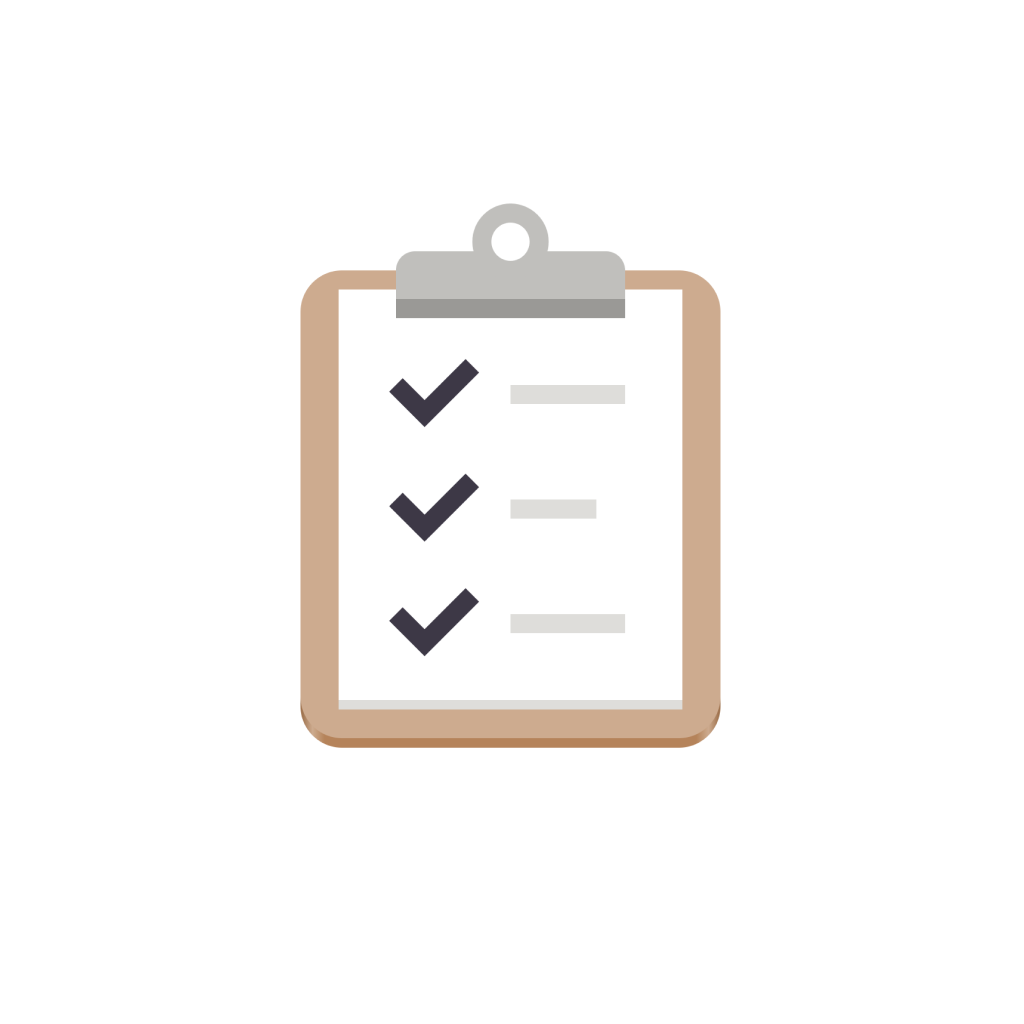
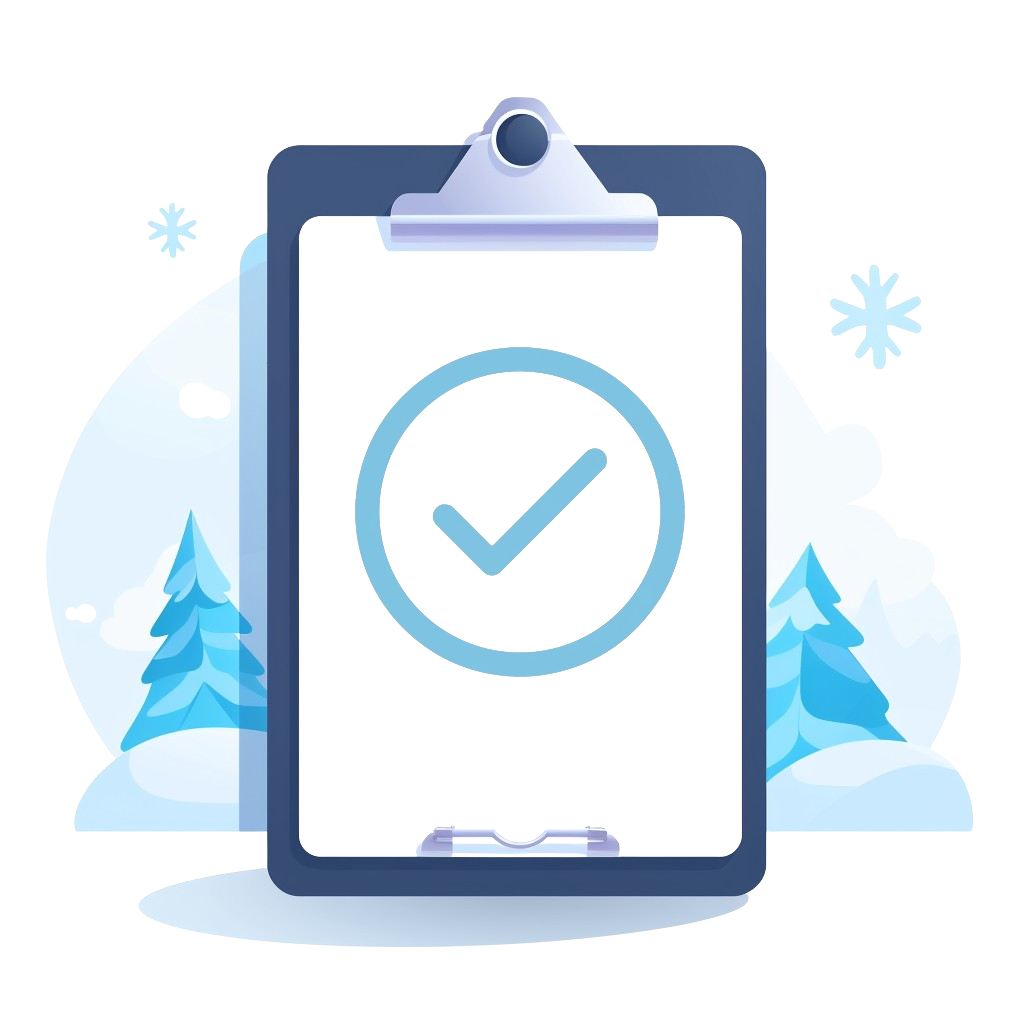
changed style and colors, added snowflakes that can be toggled on and off

diff --git a/styles/appStyles.js b/styles/appStyles.js
@@ -11,18 +11,11 @@ import Constants from "expo-constants";
 
 // Colors
 export const colors = {
-  primary: "#332424",
-  secondary: "#4D3636",
-  tertiary: "#E6E6E6",
-  alternative: "#999999",
+  primary: "#3C5A6B", // Icy Blue
+  secondary: "#F49578", // Warm Coral
+  tertiary: "#F0E5D8", // Soft Cream
+  alternative: "#7F848E", // Cool Gray
 };
-
-// export const colorsToTest = {
-//   primary: "#2E619E",
-//   secondary: "#D6CACF",
-//   tertiary: "#4484C2",
-//   alternative: "#999999",
-// };
 
 const statusBarHeight = Constants.statusBarHeight;
 
@@ -97,7 +90,9 @@ export const ListView = styled.TouchableHighlight`
   min-height: 85px;
   width: 100%;
   padding: 15px;
-  justify-content: space-around;
+  flex-direction: row;
+  justify-content: space-between;
+  align-items: center;
   margin-bottom: 15px;
   border-radius: 10px;
 `;
@@ -110,7 +105,7 @@ export const ListViewHidden = styled.View`
   justify-content: center;
   align-items: flex-end;
   margin-bottom: 15px;
-  border-radius: 11px;
+  border-radius: 10px;
 `;
 
 export const HiddenButton = styled.TouchableOpacity`
@@ -119,12 +114,11 @@ export const HiddenButton = styled.TouchableOpacity`
 `;
 
 export const NothingTodoContainer = styled.View`
+  flex: 1;
   display: flex;
   align-items: center;
   justify-content: center;
-  width: 100%;
-  height: 65%;
-  vertical-align: middle;
+  margin-bottom: 45px;
 `;
 
 export const NothingTodoText = styled.Text`
@@ -141,7 +135,7 @@ export const TodoText = styled.Text`
   color: ${colors.tertiary};
 `;
 
-export const TodoDate = styled.Text`
+export const RowCompleteIcon = styled.Text`
   font-size: 10px;
   letter-spacing: 1px;
   color: ${colors.alternative};
@@ -166,7 +160,6 @@ export const ModalButton = styled.TouchableOpacity`
   align-items: center;
   align-self: center;
   position: absolute;
-  bottom: 15px;
 `;
 
 export const ModalContainer = styled.View`
@@ -241,4 +234,15 @@ export const VerticalLine = styled.View`
   border-bottom-color: ${colors.secondary};
   border-bottom-width: 1px;
   margin-bottom: 15px;
+`;
+
+export const FooterContainer = styled.View`
+  flex-direction: row;
+  justify-content: center;
+  align-items: center;
+  vertical-align: middle;
+  background-color: ${colors.primary};
+  bottom: 30px;
+  width: 100%;
+  height: 60px;
 `;

diff --git a/components/Home.js b/components/Home.js
@@ -1,11 +1,20 @@
-import React, { useState, useEffect } from "react";
+import React, { useState } from "react";
 import AsyncStorage from "@react-native-async-storage/async-storage";
+
+import { Entypo } from "@expo/vector-icons";
 
 import Header from "./Header";
 import ListItems from "./ListItems";
 import InputModal from "./InputModal";
+import {
+  FooterContainer,
+  RightIcon,
+  HeaderButton,
+  colors,
+} from "../styles/appStyles";
+import { View } from "react-native";
 
-const Home = ({ todos, setTodos }) => {
+const Home = ({ todos, setTodos, isSnowTheme, setIsSnowTheme }) => {
   const [modalVisible, setModalVisible] = useState(false);
   const [todoInputValue, setTodoInputValue] = useState();
   const [todoToBeEdited, setTodoToBeEdited] = useState(null);
@@ -76,19 +85,35 @@ const Home = ({ todos, setTodos }) => {
         handleTriggerEdit={handleTriggerEdit}
         date={date}
       />
-      <InputModal
-        modalVisible={modalVisible}
-        setModalVisible={setModalVisible}
-        todoInputValue={todoInputValue}
-        setTodoInputValue={setTodoInputValue}
-        handleAddTodo={handleAddTodo}
-        todoToBeEdited={todoToBeEdited}
-        setTodoToBeEdited={setTodoToBeEdited}
-        handleEditTodo={handleEditTodo}
-        todos={todos}
-        date={date}
-        setDate={setDate}
-      />
+      <FooterContainer>
+        <InputModal
+          modalVisible={modalVisible}
+          setModalVisible={setModalVisible}
+          todoInputValue={todoInputValue}
+          setTodoInputValue={setTodoInputValue}
+          handleAddTodo={handleAddTodo}
+          todoToBeEdited={todoToBeEdited}
+          setTodoToBeEdited={setTodoToBeEdited}
+          handleEditTodo={handleEditTodo}
+          todos={todos}
+          date={date}
+          setDate={setDate}
+        />
+        <RightIcon>
+          <HeaderButton
+            color={colors.primary}
+            onPress={() => setIsSnowTheme((prevTheme) => !prevTheme)}
+          >
+            <>
+              <Entypo
+                name={isSnowTheme ? "eye" : "eye-with-line"}
+                size={26}
+                color={colors.tertiary}
+              />
+            </>
+          </HeaderButton>
+        </RightIcon>
+      </FooterContainer>
     </>
   );
 };

diff --git a/components/ListItems.js b/components/ListItems.js
@@ -2,7 +2,7 @@ import React, { useState, useEffect } from "react";
 import { SwipeListView } from "react-native-swipe-list-view";
 import AsyncStorage from "@react-native-async-storage/async-storage";
 
-import { Entypo } from "@expo/vector-icons";
+import { Entypo, AntDesign } from "@expo/vector-icons";
 import {
   ListView,
   ListViewHidden,
@@ -11,7 +11,7 @@ import {
   NothingTodoContainer,
   NothingTodoText,
   TodoText,
-  TodoDate,
+  RowCompleteIcon,
   colors,
 } from "./../styles/appStyles";
 const ListItems = ({ todos, setTodos, handleTriggerEdit, date }) => {
@@ -59,8 +59,6 @@ const ListItems = ({ todos, setTodos, handleTriggerEdit, date }) => {
         completed: true,
       };
 
-      console.log(newTodos);
-
       AsyncStorage.setItem("storedTodos", JSON.stringify(newTodos))
         .then(() => {
           setTodos(newTodos);
@@ -103,7 +101,17 @@ const ListItems = ({ todos, setTodos, handleTriggerEdit, date }) => {
               >
                 <>
                   <RowText>{data.item.title}</RowText>
-                  <TodoDate>{data.item.date}</TodoDate>
+                  <RowCompleteIcon>
+                    {data.item.completed ? (
+                      <AntDesign
+                        name="checkcircle"
+                        size={24}
+                        color={colors.tertiary}
+                      />
+                    ) : (
+                      <Entypo name="circle" size={24} color={colors.tertiary} />
+                    )}
+                  </RowCompleteIcon>
                 </>
               </ListView>
             );
@@ -118,7 +126,7 @@ const ListItems = ({ todos, setTodos, handleTriggerEdit, date }) => {
             );
           }}
           rightOpenValue={-80}
-          leftActivationValue={125}
+          leftActivationValue={100}
           onLeftAction={(todoKey) => {
             handleCompleteTodo(todoKey);
           }}

diff --git a/App.js b/App.js
@@ -3,6 +3,7 @@ import { StatusBar } from "expo-status-bar";
 
 import AsyncStorage from "@react-native-async-storage/async-storage";
 import * as SplashScreen from "expo-splash-screen";
+import Snow from "react-native-snow-bg";
 
 //style components
 import { Container } from "./styles/appStyles";
@@ -13,6 +14,7 @@ SplashScreen.preventAutoHideAsync();
 
 export default function App() {
   const [appIsReady, setAppIsReady] = useState(false);
+  const [isSnowTheme, setIsSnowTheme] = useState(true);
 
   const initialTodos = [];
 
@@ -56,7 +58,15 @@ export default function App() {
 
   return (
     <Container onLayout={onLayoutRootView}>
-      <Home todos={todos} setTodos={setTodos} />
+      {isSnowTheme && (
+        <Snow fullScreen snowflakesCount={50} fallSpeed="medium" />
+      )}
+      <Home
+        todos={todos}
+        setTodos={setTodos}
+        isSnowTheme={isSnowTheme}
+        setIsSnowTheme={setIsSnowTheme}
+      />
       <StatusBar style="light" />
     </Container>
   );

diff --git a/components/InputModal.js b/components/InputModal.js
@@ -107,7 +107,7 @@ const InputModal = ({
           setModalVisible(true);
         }}
       >
-        <AntDesign name="plus" size={30} color={colors.secondary} />
+        <AntDesign name="plus" size={30} color={colors.primary} />
       </ModalButton>
 
       <Modal
